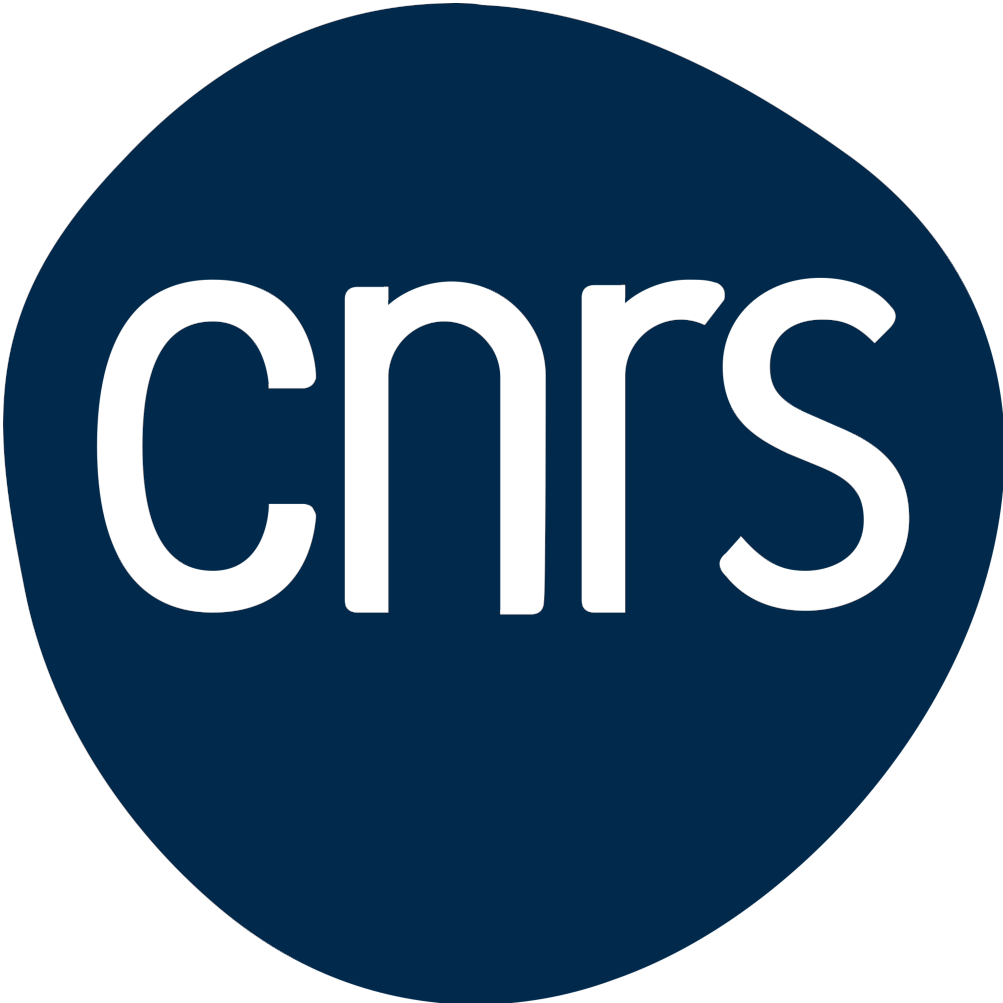
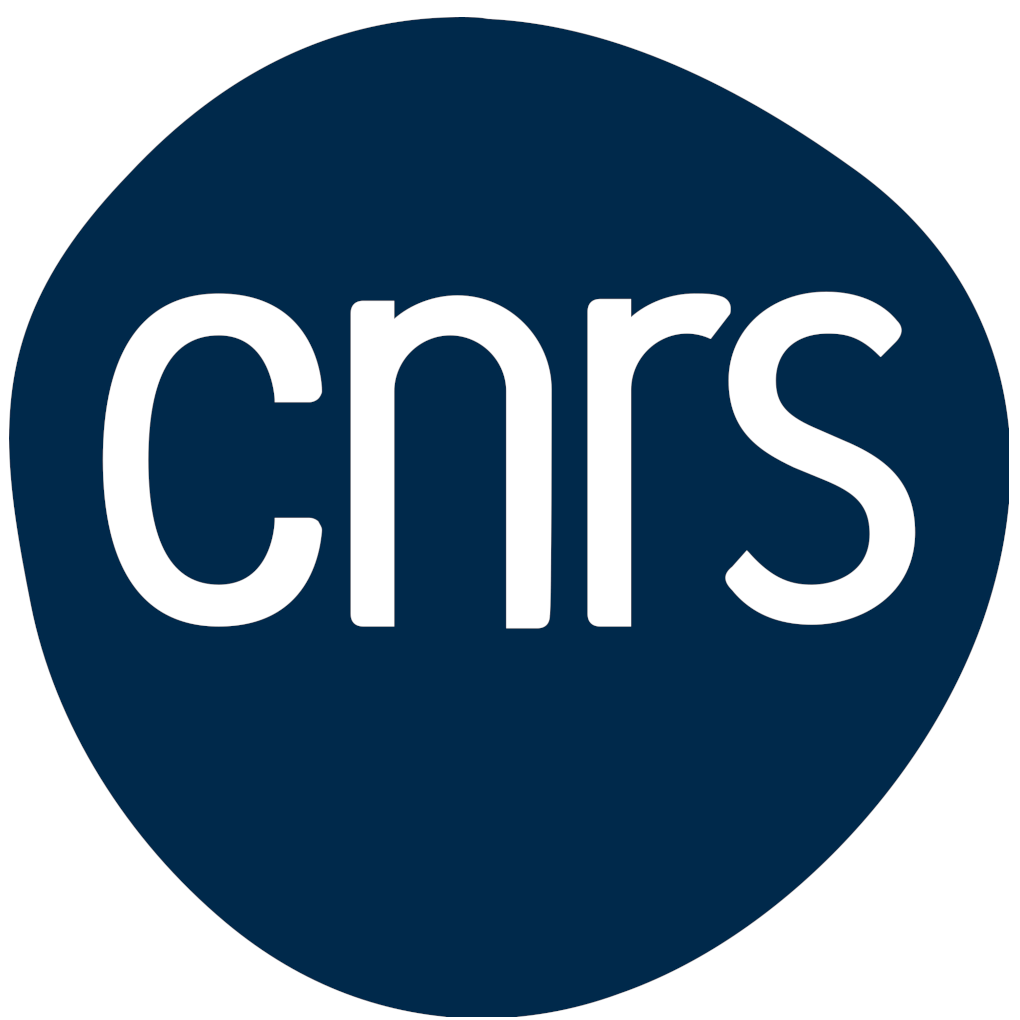
deploy: f7b3cfe2de101b14ebacc60fd5092fbd87c4645b

diff --git a/news/2023-cnrs-start.html b/news/2023-cnrs-start.html
@@ -3,7 +3,7 @@
 </a><a href=# class="dropdown-item js-set-theme-dark"><span>Dark</span>
 </a><a href=# class="dropdown-item js-set-theme-auto"><span>Automatic</span></a></div></li></ul></div></nav></header></div><div class=page-body><div class="container-fluid docs"><div class=row><div class="col-xl-2 col-lg-2 d-none d-xl-block d-lg-block empty"></div><div class="col-2 col-xl-2 col-lg-2 d-none d-lg-block docs-toc"><ul class="nav toc-top"><li><a href=# id=back_to_top class=docs-toc-title>Contents</a></li></ul><nav id=TableOfContents></nav></div><main class="col-xl-8 col-lg-8 docs-content" role=main><article class=article><div class="article-container pt-3"><h1 class=page-title>I have obtained a position at French CNRS</h1><div class=article-metadata><span class=article-date>Posted Jun 29, 2023
 </span><span class=article-date></span></div><div class="btn-links mb-3"><a class="btn btn-outline-primary btn-page-header" href=https://liphy.univ-grenoble-alpes.fr/ target=_blank rel=noopener><i class="fas fa-scroll mr-1"></i>LIPhy</a>
-<a class="btn btn-outline-primary btn-page-header" href=https://www.cnrs.fr/fr target=_blank rel=noopener><i class="fas fa-scroll mr-1"></i>CNRS</a></div></div><div class="article-header article-container featured-image-wrapper mt-4 mb-4" style=max-width:720px;max-height:720px><div style=position:relative><img src=../news/2023-cnrs-start/featured_hu5f77afbe4cc17d0d40f77541ca7da519_65584_720x2500_fit_q75_h2_lanczos_3.webp width=720 height=720 alt class=featured-image>
+<a class="btn btn-outline-primary btn-page-header" href=https://www.cnrs.fr/fr target=_blank rel=noopener><i class="fas fa-scroll mr-1"></i>CNRS</a></div></div><div class="article-header article-container featured-image-wrapper mt-4 mb-4" style=max-width:720px;max-height:720px><div style=position:relative><img src=../news/2023-cnrs-start/featured_hu466a66a37f233892de1b1ea071d454da_80773_720x2500_fit_q75_h2_lanczos_3.webp width=720 height=720 alt class=featured-image>
 <span class=article-header-caption>CNRS logo</span></div></div><div class=article-container><div class=article-style align=justify><p>In the continuity of my MSCA fellowship, I&rsquo;ve been hired by the French CNRS (Section 11) as a tenured full time researcher at <a href=https://liphy.univ-grenoble-alpes.fr/ target=_blank rel=noopener>LIPhy</a> (UGA).</p></div><script src=../js/jquery-3.6.2.min.js></script><script src=../js/transition.js></script><script src=../js/collapse.js></script><script src=../js/dropdown.js></script><script src=https://cdn.jsdelivr.net/npm/popper.js@1.16.0/dist/umd/popper.min.js></script><script src=../js/codefolding.js></script><link rel=stylesheet href=../css/codefolding.css><script>$(document).ready(function(){window.initializeCodeFolding("show"==="show")})</script><div class=article-tags><a class="badge badge-light" href=../tag/personal.html>Personal</a></div><div class=share-box><ul class=share><li><a href="https://twitter.com/intent/tweet?url=https://simongravelle.github.io/news/2023-cnrs-start.html&amp;text=I%20have%20obtained%20a%20position%20at%20French%20CNRS" target=_blank rel=noopener class=share-btn-twitter aria-label=twitter><i class="fab fa-twitter"></i></a></li><li><a href="https://www.facebook.com/sharer.php?u=https://simongravelle.github.io/news/2023-cnrs-start.html&amp;t=I%20have%20obtained%20a%20position%20at%20French%20CNRS" target=_blank rel=noopener class=share-btn-facebook aria-label=facebook><i class="fab fa-facebook"></i></a></li><li><a href="mailto:?subject=I%20have%20obtained%20a%20position%20at%20French%20CNRS&amp;body=https://simongravelle.github.io/news/2023-cnrs-start.html" target=_blank rel=noopener class=share-btn-email aria-label=envelope><i class="fas fa-envelope"></i></a></li><li><a href="https://www.tumblr.com/widgets/share/tool?canonicalUrl=https://simongravelle.github.io/news/2023-cnrs-start.html&amp;title=I%20have%20obtained%20a%20position%20at%20French%20CNRS" target=_blank rel=noopener class=share-btn-tumblr aria-label=tumblr><i class="fab fa-tumblr"></i></a></li></ul></div><div class="media author-card content-widget-hr"><a href=https://simongravelle.github.io/><img class="avatar mr-3 avatar-circle" src=../authors/admin/avatar_hu3a1c273149902e1390bb03188d886632_15505_270x270_fill_q75_lanczos_center.jpg alt="Simon Gravelle"></a><div class=media-body><h5 class=card-title><a href=https://simongravelle.github.io/>Simon Gravelle</a></h5><h6 class=card-subtitle>CNRS research scientist, MSCA Fellow</h6><p class=card-text>I am a computer physicist in soft matter and fluids at interfaces at LIPhy (UGA/CNRS) in Grenoble, France.</p><ul class=network-icon aria-hidden=true><li><a href=mailto:simon.gravelle@live.fr><i class="fas fa-envelope"></i></a></li><li><a href=https://twitter.com/GravelleSimon target=_blank rel=noopener><i class="fab fa-twitter"></i></a></li><li><a href="https://scholar.google.com/citations?user=9fD2JlYAAAAJ&amp;hl=fr" target=_blank rel=noopener><i class="fas fa-graduation-cap"></i></a></li><li><a href=https://github.com/simongravelle target=_blank rel=noopener><i class="fab fa-github"></i></a></li><li><a href=../files/resume/resume-simon-gravelle.pdf><i class="ai ai-cv"></i></a></li></ul></div></div></div></article></main></div></div></div><div class=page-footer><div class=container><footer class=site-footer><p class="powered-by copyright-license-text">© 2024 Simon Gravelle. This work is licensed under <a href=https://creativecommons.org/licenses/by-sa/4.0 rel="noopener noreferrer" target=_blank>CC BY SA 4.0</a>.</p><p class="powered-by footer-license-icons"><a href=https://creativecommons.org/licenses/by-sa/4.0 rel="noopener noreferrer" target=_blank aria-label="Creative Commons"><i class="fab fa-creative-commons fa-2x" aria-hidden=true></i>
 <i class="fab fa-creative-commons-by fa-2x" aria-hidden=true></i>
 <i class="fab fa-creative-commons-sa fa-2x" aria-hidden=true></i></a></p><p class=powered-by>Site built with lightly customized version of <a href=https://github.com/wowchemy/starter-hugo-academic target=_blank rel=noopener>Wowchemy Academic</a>.

diff --git a/index.html b/index.html
@@ -21,7 +21,7 @@ renderings of molecules</li></ul></div></div></div></div></div></div></section><
 </span><span class=article-date></span></div></div><div class=btn-links><a class="btn btn-outline-primary btn-page-header btn-sm" href=https://liphy.univ-grenoble-alpes.fr/ target=_blank rel=noopener><i class="fas fa-scroll mr-1"></i>LIPhy</a></div></div><div class=ml-3><a href=./news/2024-postdoc-offer.html><img src=./news/2024-postdoc-offer/featured_huc784797013014516150c9d42d189d0cd_346904_150x0_resize_q75_h2_lanczos_3.webp height=117 width=150 alt="PostDoc Position Available in LIPhy (closed)" loading=lazy></a></div></div></div><div class="col-12 isotope-item js-id-Job"><div class="media stream-item view-compact"><div class=media-body><div class="section-subheading article-title mb-0 mt-0"><a href=./news/2023-phd-offer.html>PhD Position Available in LIPhy (Filled)</a></div><a href=./news/2023-phd-offer.html class=summary-link><div class=article-style>CO2 Capture Using Nanoporous Adsorbents &ndash; A Multiscale Numerical Approach From Molecular Aspects to the Engineering Scale</div></a><div class="stream-meta article-metadata"><div class=article-metadata><span class=article-date>Posted Jul 10, 2023
 </span><span class=article-date></span></div></div><div class=btn-links><a class="btn btn-outline-primary btn-page-header btn-sm" href=https://liphy.univ-grenoble-alpes.fr/ target=_blank rel=noopener><i class="fas fa-scroll mr-1"></i>LIPhy</a></div></div><div class=ml-3><a href=./news/2023-phd-offer.html><img src=./news/2023-phd-offer/featured_huc784797013014516150c9d42d189d0cd_346904_150x0_resize_q75_h2_lanczos_3.webp height=117 width=150 alt="PhD Position Available in LIPhy (Filled)" loading=lazy></a></div></div></div><div class="col-12 isotope-item js-id-Personal"><div class="media stream-item view-compact"><div class=media-body><div class="section-subheading article-title mb-0 mt-0"><a href=./news/2023-cnrs-start.html>I have obtained a position at French CNRS</a></div><a href=./news/2023-cnrs-start.html class=summary-link><div class=article-style>I will be mainly working on the separation of fluid mixture using soft matter membrane, in LiPhy, Grenoble.</div></a><div class="stream-meta article-metadata"><div class=article-metadata><span class=article-date>Posted Jun 29, 2023
 </span><span class=article-date></span></div></div><div class=btn-links><a class="btn btn-outline-primary btn-page-header btn-sm" href=https://liphy.univ-grenoble-alpes.fr/ target=_blank rel=noopener><i class="fas fa-scroll mr-1"></i>LIPhy</a>
-<a class="btn btn-outline-primary btn-page-header btn-sm" href=https://www.cnrs.fr/fr target=_blank rel=noopener><i class="fas fa-scroll mr-1"></i>CNRS</a></div></div><div class=ml-3><a href=./news/2023-cnrs-start.html><img src=./news/2023-cnrs-start/featured_hu5f77afbe4cc17d0d40f77541ca7da519_65584_150x0_resize_q75_h2_lanczos_3.webp height=150 width=150 alt="I have obtained a position at French CNRS" loading=lazy></a></div></div></div><div class="col-12 isotope-item js-id-Outreach"><div class="media stream-item view-compact"><div class=media-body><div class="section-subheading article-title mb-0 mt-0"><a href=./news/2023-lammpstutorial-v2.0.html>The version 2.0 of LAMMPS tutorials has been released</a></div><a href=./news/2023-lammpstutorial-v2.0.html class=summary-link><div class=article-style>Now with a new structure and a dark mode!</div></a><div class="stream-meta article-metadata"><div class=article-metadata><span class=article-date>Posted Feb 5, 2023
+<a class="btn btn-outline-primary btn-page-header btn-sm" href=https://www.cnrs.fr/fr target=_blank rel=noopener><i class="fas fa-scroll mr-1"></i>CNRS</a></div></div><div class=ml-3><a href=./news/2023-cnrs-start.html><img src=./news/2023-cnrs-start/featured_hu466a66a37f233892de1b1ea071d454da_80773_150x0_resize_q75_h2_lanczos_3.webp height=150 width=150 alt="I have obtained a position at French CNRS" loading=lazy></a></div></div></div><div class="col-12 isotope-item js-id-Outreach"><div class="media stream-item view-compact"><div class=media-body><div class="section-subheading article-title mb-0 mt-0"><a href=./news/2023-lammpstutorial-v2.0.html>The version 2.0 of LAMMPS tutorials has been released</a></div><a href=./news/2023-lammpstutorial-v2.0.html class=summary-link><div class=article-style>Now with a new structure and a dark mode!</div></a><div class="stream-meta article-metadata"><div class=article-metadata><span class=article-date>Posted Feb 5, 2023
 </span><span class=article-date></span></div></div><div class=btn-links><a class="btn btn-outline-primary btn-page-header btn-sm" href=https://lammpstutorials.github.io/ target=_blank rel=noopener><i class="fas fa-scroll mr-1"></i>Website</a>
 <a class="btn btn-outline-primary btn-page-header btn-sm" href=https://github.com/lammpstutorials/lammpstutorials.github.io target=_blank rel=noopener><i class="fab fa-github mr-1"></i>Source</a></div></div><div class=ml-3><a href=./news/2023-lammpstutorial-v2.0.html><img src=./news/2023-lammpstutorial-v2.0/featured_hu4c493653b6805e79b0818a3380b32381_89326_150x0_resize_q75_h2_lanczos_3.webp height=150 width=150 alt="The version 2.0 of LAMMPS tutorials has been released" loading=lazy></a></div></div></div><div class="col-12 isotope-item js-id-Personal"><div class="media stream-item view-compact"><div class=media-body><div class="section-subheading article-title mb-0 mt-0"><a href=./news/2023-liphy-arrival.html>New MSCA project NanoSep starting at UGA</a></div><a href=./news/2023-liphy-arrival.html class=summary-link><div class=article-style>My goal is to evaluate the possibility of separating fluid mixtures using nanopores.</div></a><div class="stream-meta article-metadata"><div class=article-metadata><span class=article-date>Posted Jan 31, 2023
 </span><span class=article-date></span></div></div><div class=btn-links><a class="btn btn-outline-primary btn-page-header btn-sm" href=https://liphy.univ-grenoble-alpes.fr/ target=_blank rel=noopener><i class="fas fa-scroll mr-1"></i>LIPhy</a>

diff --git a/news.html b/news.html
@@ -8,7 +8,7 @@
 </span><span class=article-date></span></div></div><div class=btn-links><a class="btn btn-outline-primary btn-page-header btn-sm" href=https://liphy.univ-grenoble-alpes.fr/ target=_blank rel=noopener><i class="fas fa-scroll mr-1"></i>LIPhy</a></div></div><div class=ml-3><a href=./news/2024-postdoc-offer.html><img src=./news/2024-postdoc-offer/featured_huc784797013014516150c9d42d189d0cd_346904_150x0_resize_q75_h2_lanczos_3.webp height=117 width=150 alt="PostDoc Position Available in LIPhy (closed)" loading=lazy></a></div></div><div class="media stream-item view-compact"><div class=media-body><div class="section-subheading article-title mb-0 mt-0"><a href=./news/2023-phd-offer.html>PhD Position Available in LIPhy (Filled)</a></div><a href=./news/2023-phd-offer.html class=summary-link><div class=article-style>CO2 Capture Using Nanoporous Adsorbents &ndash; A Multiscale Numerical Approach From Molecular Aspects to the Engineering Scale</div></a><div class="stream-meta article-metadata"><div class=article-metadata><span class=article-date>Posted Jul 10, 2023
 </span><span class=article-date></span></div></div><div class=btn-links><a class="btn btn-outline-primary btn-page-header btn-sm" href=https://liphy.univ-grenoble-alpes.fr/ target=_blank rel=noopener><i class="fas fa-scroll mr-1"></i>LIPhy</a></div></div><div class=ml-3><a href=./news/2023-phd-offer.html><img src=./news/2023-phd-offer/featured_huc784797013014516150c9d42d189d0cd_346904_150x0_resize_q75_h2_lanczos_3.webp height=117 width=150 alt="PhD Position Available in LIPhy (Filled)" loading=lazy></a></div></div><div class="media stream-item view-compact"><div class=media-body><div class="section-subheading article-title mb-0 mt-0"><a href=./news/2023-cnrs-start.html>I have obtained a position at French CNRS</a></div><a href=./news/2023-cnrs-start.html class=summary-link><div class=article-style>I will be mainly working on the separation of fluid mixture using soft matter membrane, in LiPhy, Grenoble.</div></a><div class="stream-meta article-metadata"><div class=article-metadata><span class=article-date>Posted Jun 29, 2023
 </span><span class=article-date></span></div></div><div class=btn-links><a class="btn btn-outline-primary btn-page-header btn-sm" href=https://liphy.univ-grenoble-alpes.fr/ target=_blank rel=noopener><i class="fas fa-scroll mr-1"></i>LIPhy</a>
-<a class="btn btn-outline-primary btn-page-header btn-sm" href=https://www.cnrs.fr/fr target=_blank rel=noopener><i class="fas fa-scroll mr-1"></i>CNRS</a></div></div><div class=ml-3><a href=./news/2023-cnrs-start.html><img src=./news/2023-cnrs-start/featured_hu5f77afbe4cc17d0d40f77541ca7da519_65584_150x0_resize_q75_h2_lanczos_3.webp height=150 width=150 alt="I have obtained a position at French CNRS" loading=lazy></a></div></div><div class="media stream-item view-compact"><div class=media-body><div class="section-subheading article-title mb-0 mt-0"><a href=./news/2023-lammpstutorial-v2.0.html>The version 2.0 of LAMMPS tutorials has been released</a></div><a href=./news/2023-lammpstutorial-v2.0.html class=summary-link><div class=article-style>Now with a new structure and a dark mode!</div></a><div class="stream-meta article-metadata"><div class=article-metadata><span class=article-date>Posted Feb 5, 2023
+<a class="btn btn-outline-primary btn-page-header btn-sm" href=https://www.cnrs.fr/fr target=_blank rel=noopener><i class="fas fa-scroll mr-1"></i>CNRS</a></div></div><div class=ml-3><a href=./news/2023-cnrs-start.html><img src=./news/2023-cnrs-start/featured_hu466a66a37f233892de1b1ea071d454da_80773_150x0_resize_q75_h2_lanczos_3.webp height=150 width=150 alt="I have obtained a position at French CNRS" loading=lazy></a></div></div><div class="media stream-item view-compact"><div class=media-body><div class="section-subheading article-title mb-0 mt-0"><a href=./news/2023-lammpstutorial-v2.0.html>The version 2.0 of LAMMPS tutorials has been released</a></div><a href=./news/2023-lammpstutorial-v2.0.html class=summary-link><div class=article-style>Now with a new structure and a dark mode!</div></a><div class="stream-meta article-metadata"><div class=article-metadata><span class=article-date>Posted Feb 5, 2023
 </span><span class=article-date></span></div></div><div class=btn-links><a class="btn btn-outline-primary btn-page-header btn-sm" href=https://lammpstutorials.github.io/ target=_blank rel=noopener><i class="fas fa-scroll mr-1"></i>Website</a>
 <a class="btn btn-outline-primary btn-page-header btn-sm" href=https://github.com/lammpstutorials/lammpstutorials.github.io target=_blank rel=noopener><i class="fab fa-github mr-1"></i>Source</a></div></div><div class=ml-3><a href=./news/2023-lammpstutorial-v2.0.html><img src=./news/2023-lammpstutorial-v2.0/featured_hu4c493653b6805e79b0818a3380b32381_89326_150x0_resize_q75_h2_lanczos_3.webp height=150 width=150 alt="The version 2.0 of LAMMPS tutorials has been released" loading=lazy></a></div></div><div class="media stream-item view-compact"><div class=media-body><div class="section-subheading article-title mb-0 mt-0"><a href=./news/2023-liphy-arrival.html>New MSCA project NanoSep starting at UGA</a></div><a href=./news/2023-liphy-arrival.html class=summary-link><div class=article-style>My goal is to evaluate the possibility of separating fluid mixtures using nanopores.</div></a><div class="stream-meta article-metadata"><div class=article-metadata><span class=article-date>Posted Jan 31, 2023
 </span><span class=article-date></span></div></div><div class=btn-links><a class="btn btn-outline-primary btn-page-header btn-sm" href=https://liphy.univ-grenoble-alpes.fr/ target=_blank rel=noopener><i class="fas fa-scroll mr-1"></i>LIPhy</a>

diff --git a/tag/personal.html b/tag/personal.html
@@ -3,7 +3,7 @@
 </a><a href=# class="dropdown-item js-set-theme-dark"><span>Dark</span>
 </a><a href=# class="dropdown-item js-set-theme-auto"><span>Automatic</span></a></div></li></ul></div></nav></header></div><div class=page-body><div class="universal-wrapper pt-3"><h1>Personal</h1></div><div class=universal-wrapper><div class="media stream-item view-compact"><div class=media-body><div class="section-subheading article-title mb-0 mt-0"><a href=../news/2023-cnrs-start.html>I have obtained a position at French CNRS</a></div><a href=../news/2023-cnrs-start.html class=summary-link><div class=article-style>I will be mainly working on the separation of fluid mixture using soft matter membrane, in LiPhy, Grenoble.</div></a><div class="stream-meta article-metadata"><div class=article-metadata><span class=article-date>Posted Jun 29, 2023
 </span><span class=article-date></span></div></div><div class=btn-links><a class="btn btn-outline-primary btn-page-header btn-sm" href=https://liphy.univ-grenoble-alpes.fr/ target=_blank rel=noopener><i class="fas fa-scroll mr-1"></i>LIPhy</a>
-<a class="btn btn-outline-primary btn-page-header btn-sm" href=https://www.cnrs.fr/fr target=_blank rel=noopener><i class="fas fa-scroll mr-1"></i>CNRS</a></div></div><div class=ml-3><a href=../news/2023-cnrs-start.html><img src=../news/2023-cnrs-start/featured_hu5f77afbe4cc17d0d40f77541ca7da519_65584_150x0_resize_q75_h2_lanczos_3.webp height=150 width=150 alt="I have obtained a position at French CNRS" loading=lazy></a></div></div><div class="media stream-item view-compact"><div class=media-body><div class="section-subheading article-title mb-0 mt-0"><a href=../news/2023-liphy-arrival.html>New MSCA project NanoSep starting at UGA</a></div><a href=../news/2023-liphy-arrival.html class=summary-link><div class=article-style>My goal is to evaluate the possibility of separating fluid mixtures using nanopores.</div></a><div class="stream-meta article-metadata"><div class=article-metadata><span class=article-date>Posted Jan 31, 2023
+<a class="btn btn-outline-primary btn-page-header btn-sm" href=https://www.cnrs.fr/fr target=_blank rel=noopener><i class="fas fa-scroll mr-1"></i>CNRS</a></div></div><div class=ml-3><a href=../news/2023-cnrs-start.html><img src=../news/2023-cnrs-start/featured_hu466a66a37f233892de1b1ea071d454da_80773_150x0_resize_q75_h2_lanczos_3.webp height=150 width=150 alt="I have obtained a position at French CNRS" loading=lazy></a></div></div><div class="media stream-item view-compact"><div class=media-body><div class="section-subheading article-title mb-0 mt-0"><a href=../news/2023-liphy-arrival.html>New MSCA project NanoSep starting at UGA</a></div><a href=../news/2023-liphy-arrival.html class=summary-link><div class=article-style>My goal is to evaluate the possibility of separating fluid mixtures using nanopores.</div></a><div class="stream-meta article-metadata"><div class=article-metadata><span class=article-date>Posted Jan 31, 2023
 </span><span class=article-date></span></div></div><div class=btn-links><a class="btn btn-outline-primary btn-page-header btn-sm" href=https://liphy.univ-grenoble-alpes.fr/ target=_blank rel=noopener><i class="fas fa-scroll mr-1"></i>LIPhy</a>
 <a class="btn btn-outline-primary btn-page-header btn-sm" href=https://marie-sklodowska-curie-actions.ec.europa.eu/ target=_blank rel=noopener><i class="fas fa-scroll mr-1"></i>MSCA</a></div></div><div class=ml-3><a href=../news/2023-liphy-arrival.html><img src=../news/2023-liphy-arrival/featured_hufb45a2ed556855bd40214cc6017d31ed_25029_150x0_resize_q75_h2_lanczos_3.webp height=150 width=150 alt="New MSCA project NanoSep starting at UGA" loading=lazy></a></div></div></div></div><div class=page-footer><div class=container><footer class=site-footer><p class="powered-by copyright-license-text">© 2024 Simon Gravelle. This work is licensed under <a href=https://creativecommons.org/licenses/by-sa/4.0 rel="noopener noreferrer" target=_blank>CC BY SA 4.0</a>.</p><p class="powered-by footer-license-icons"><a href=https://creativecommons.org/licenses/by-sa/4.0 rel="noopener noreferrer" target=_blank aria-label="Creative Commons"><i class="fab fa-creative-commons fa-2x" aria-hidden=true></i>
 <i class="fab fa-creative-commons-by fa-2x" aria-hidden=true></i>
